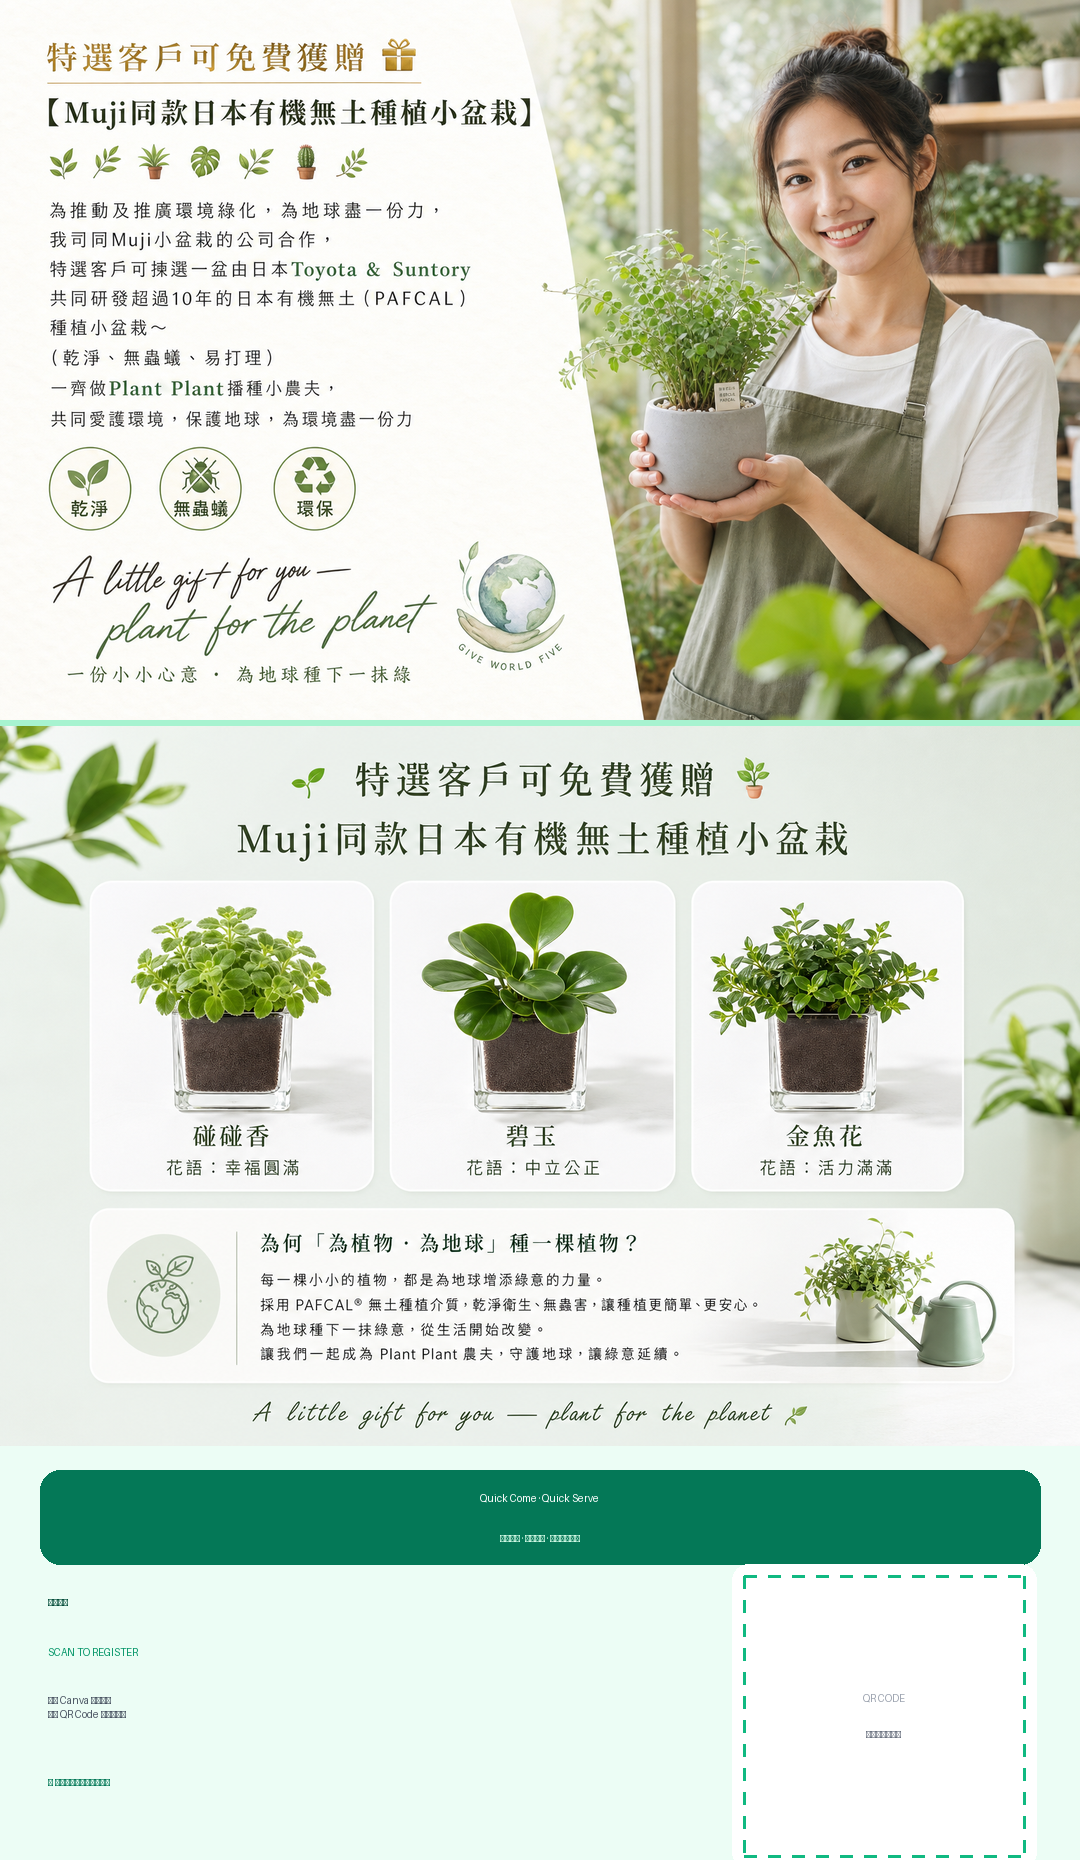
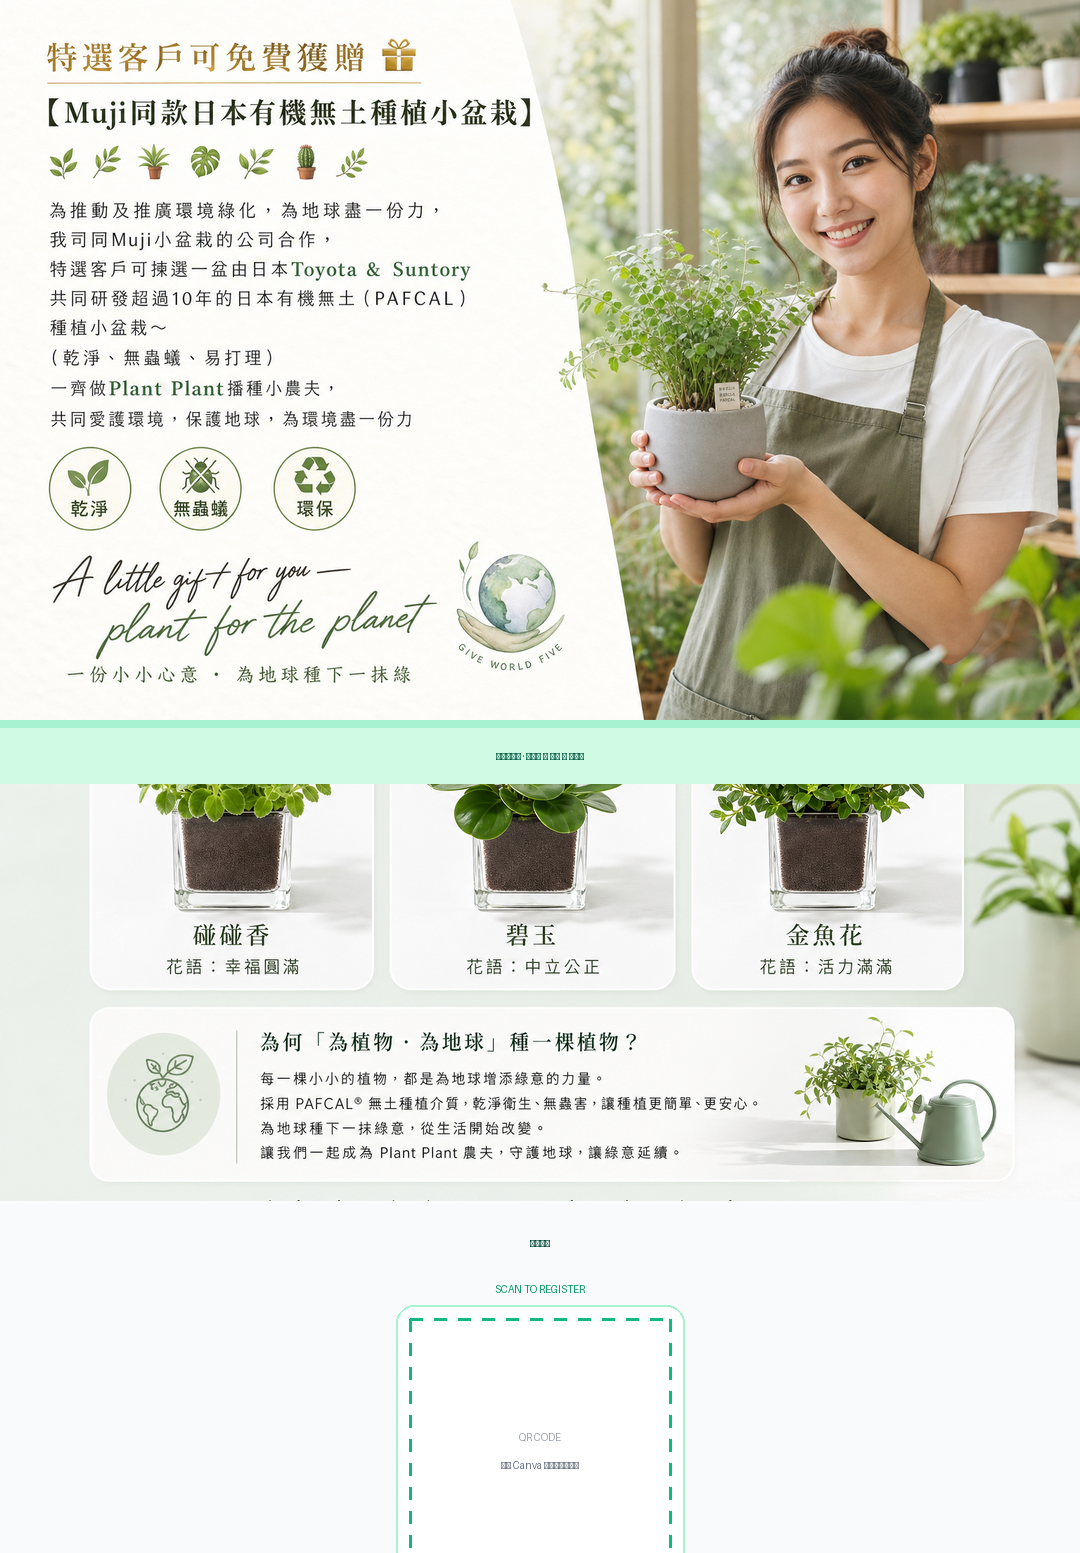
Combined poster: original base, plant mockup at end, 掃碼登記 only

diff --git a/client-base/marketing/compose_combined_poster.py b/client-base/marketing/compose_combined_poster.py
@@ -1,5 +1,10 @@
 #!/usr/bin/env python3
-"""Combine gift + plant mockup posters; add QR placeholder & Quick Come Quick Serve."""
+"""
+Combined poster:
+  1) Original gift poster (full)
+  2) Plant mock-up strip only (3 varieties) at the end
+  3) Footer: 掃碼登記 + QR placeholder (no Quick Come Quick Serve)
+"""
 
 from pathlib import Path
 
@@ -10,8 +15,11 @@ GIFT = BASE / "plant-gift-poster-v2.png"
 MOCKUP = BASE / "plant-mockup-poster.png"
 OUTPUT = BASE / "plant-combined-poster.png"
 W = 1080
-FOOTER_H = 420
-QR_SIZE = 280
+FOOTER_H = 360
+QR_SIZE = 260
+# Crop mock-up image to the three-plant row only (tune if needed)
+MOCK_CROP_TOP_RATIO = 0.36
+MOCK_CROP_BOTTOM_RATIO = 0.94
 
 
 def font(size: int, bold: bool = False):
@@ -30,6 +38,13 @@ def fit_width(img: Image.Image, width: int) -> Image.Image:
     return img.resize((width, h), Image.Resampling.LANCZOS)
 
 
+def extract_plant_mockup_strip(mock: Image.Image) -> Image.Image:
+    w, h = mock.size
+    y0 = int(h * MOCK_CROP_TOP_RATIO)
+    y1 = int(h * MOCK_CROP_BOTTOM_RATIO)
+    return mock.crop((0, y0, w, y1))
+
+
 def draw_dashed_rect(draw, box, color=(16, 185, 129), width=3, dash=12):
     x0, y0, x1, y1 = box
     for x in range(x0, x1, dash * 2):
@@ -41,78 +56,83 @@ def draw_dashed_rect(draw, box, color=(16, 185, 129), width=3, dash=12):
 
 
 def build_footer(height: int) -> Image.Image:
-    foot = Image.new("RGB", (W, height), (236, 253, 245))
+    foot = Image.new("RGB", (W, height), (248, 250, 252))
     draw = ImageDraw.Draw(foot)
 
-    # Quick Come Quick Serve banner
-    draw.rounded_rectangle((40, 24, W - 40, 118), radius=20, fill=(4, 120, 87))
-    draw.text((W // 2, 52), "Quick Come · Quick Serve", fill=(255, 255, 255), font=font(36, True), anchor="mm")
-    draw.text((W // 2, 92), "快捷服務 · 快來快約 · 盡快為您安排", fill=(209, 250, 229), font=font(26), anchor="mm")
+    # Title centred
+    draw.text((W // 2, 42), "掃碼登記", fill=(6, 78, 59), font=font(48, True), anchor="mm")
+    draw.text((W // 2, 88), "SCAN TO REGISTER", fill=(5, 150, 105), font=font(22), anchor="mm")
 
-    # QR zone (right side)
-    qr_x = W - QR_SIZE - 56
-    qr_y = 130
+    qr_x = (W - QR_SIZE) // 2
+    qr_y = 118
     draw.rounded_rectangle(
-        (qr_x - 12, qr_y - 12, qr_x + QR_SIZE + 12, qr_y + QR_SIZE + 12),
-        radius=16,
+        (qr_x - 14, qr_y - 14, qr_x + QR_SIZE + 14, qr_y + QR_SIZE + 14),
+        radius=18,
         fill=(255, 255, 255),
+        outline=(167, 243, 208),
+        width=2,
     )
     draw.rectangle((qr_x, qr_y, qr_x + QR_SIZE, qr_y + QR_SIZE), fill=(255, 255, 255))
     draw_dashed_rect(draw, (qr_x, qr_y, qr_x + QR_SIZE, qr_y + QR_SIZE))
 
     draw.text(
-        (qr_x + QR_SIZE // 2, qr_y + QR_SIZE // 2 - 18),
+        (W // 2, qr_y + QR_SIZE // 2 - 12),
         "QR CODE",
         fill=(156, 163, 175),
-        font=font(22, True),
+        font=font(20, True),
         anchor="mm",
     )
     draw.text(
-        (qr_x + QR_SIZE // 2, qr_y + QR_SIZE // 2 + 18),
-        "貼上登記二維碼",
+        (W // 2, qr_y + QR_SIZE // 2 + 16),
+        "請於 Canva 貼上登記二維碼",
         fill=(107, 114, 128),
         font=font(20),
         anchor="mm",
     )
 
-    # Scan / register text (left of QR)
-    lx = 48
-    draw.text((lx, 150), "掃描登記", fill=(6, 78, 59), font=font(40, True))
-    draw.text((lx, 200), "SCAN TO REGISTER", fill=(5, 150, 105), font=font(24, True))
-    draw.text(
-        (lx, 248),
-        "請於 Canva 貼上您的\n登記 QR Code 於右方方框",
-        fill=(75, 85, 99),
-        font=font(22),
-    )
-    draw.text(
-        (lx, 330),
-        "🌱 特選客戶免費獲贈小盆栽",
-        fill=(4, 120, 87),
-        font=font(24, True),
-    )
-
     return foot
+
+
+def build_mockup_section(mock: Image.Image) -> Image.Image:
+    """Plant strip + small heading bar."""
+    strip = extract_plant_mockup_strip(mock)
+    strip_r = fit_width(strip, W)
+    bar_h = 56
+    section = Image.new("RGB", (W, bar_h + strip_r.height), (240, 253, 244))
+    draw = ImageDraw.Draw(section)
+    draw.rectangle((0, 0, W, bar_h), fill=(209, 250, 229))
+    draw.text(
+        (W // 2, bar_h // 2),
+        "精選小盆栽 · 碰碰香 ／ 碧玉 ／ 金魚花",
+        fill=(6, 95, 70),
+        font=font(28, True),
+        anchor="mm",
+    )
+    section.paste(strip_r, (0, bar_h))
+    return section
 
 
 def main():
     gift = Image.open(GIFT).convert("RGB")
     mock = Image.open(MOCKUP).convert("RGB")
+
     gift_r = fit_width(gift, W)
-    mock_r = fit_width(mock, W)
+    mock_section = build_mockup_section(mock)
     footer = build_footer(FOOTER_H)
 
-    total_h = gift_r.height + mock_r.height + FOOTER_H
+    total_h = gift_r.height + mock_section.height + FOOTER_H
     canvas = Image.new("RGB", (W, total_h), (255, 255, 255))
     y = 0
     canvas.paste(gift_r, (0, y))
     y += gift_r.height
-    # thin divider
+
     draw = ImageDraw.Draw(canvas)
-    draw.rectangle((0, y, W, y + 6), fill=(167, 243, 208))
-    y += 6
-    canvas.paste(mock_r, (0, y))
-    y += mock_r.height
+    draw.rectangle((0, y, W, y + 8), fill=(167, 243, 208))
+    y += 8
+
+    canvas.paste(mock_section, (0, y))
+    y += mock_section.height
+
     canvas.paste(footer, (0, y))
 
     canvas.save(OUTPUT, quality=95)

diff --git a/client-base/marketing/README.md b/client-base/marketing/README.md
@@ -1,30 +1,26 @@
-# WhatsApp posters
+# WhatsApp poster — combined
 
-## Combined poster (use this)
+## File
 
-| File | Description |
-|------|-------------|
-| **`plant-combined-poster.png`** | **Poster 1 + Poster 2 merged** + QR box + Quick Come Quick Serve |
-| `plant-combined-poster-ai.png` | AI redrawn single layout (optional) |
+**`plant-combined-poster.png`**
 
-## QR code in Canva
+| Section | Content |
+|---------|---------|
+| Top | **Original** gift poster (full) |
+| End | **盆栽 mock-up only** — 碰碰香 / 碧玉 / 金魚花 |
+| Bottom | **掃碼登記** + QR box (paste QR in Canva) |
 
-1. Open `plant-combined-poster.png` in Canva  
-2. Find the **dashed white square** (bottom right)  
-3. Upload your registration QR → place inside the box  
-4. Export as PNG → send on WhatsApp  
+No Quick Come · Quick Serve text.
 
-## Rebuild combined poster
+## Canva — paste QR
+
+1. Open `plant-combined-poster.png`
+2. Place your QR in the **dashed box** under **掃碼登記**
+3. Export → WhatsApp
+
+## Rebuild
 
 ```bash
 cd client-base/marketing
 python3 compose_combined_poster.py
 ```
-
-Requires: `plant-gift-poster-v2.png` + `plant-mockup-poster.png`
-
-## Quick Come · Quick Serve
-
-Shown on bottom banner:
-- **Quick Come · Quick Serve**
-- 快捷服務 · 快來快約 · 盡快為您安排
